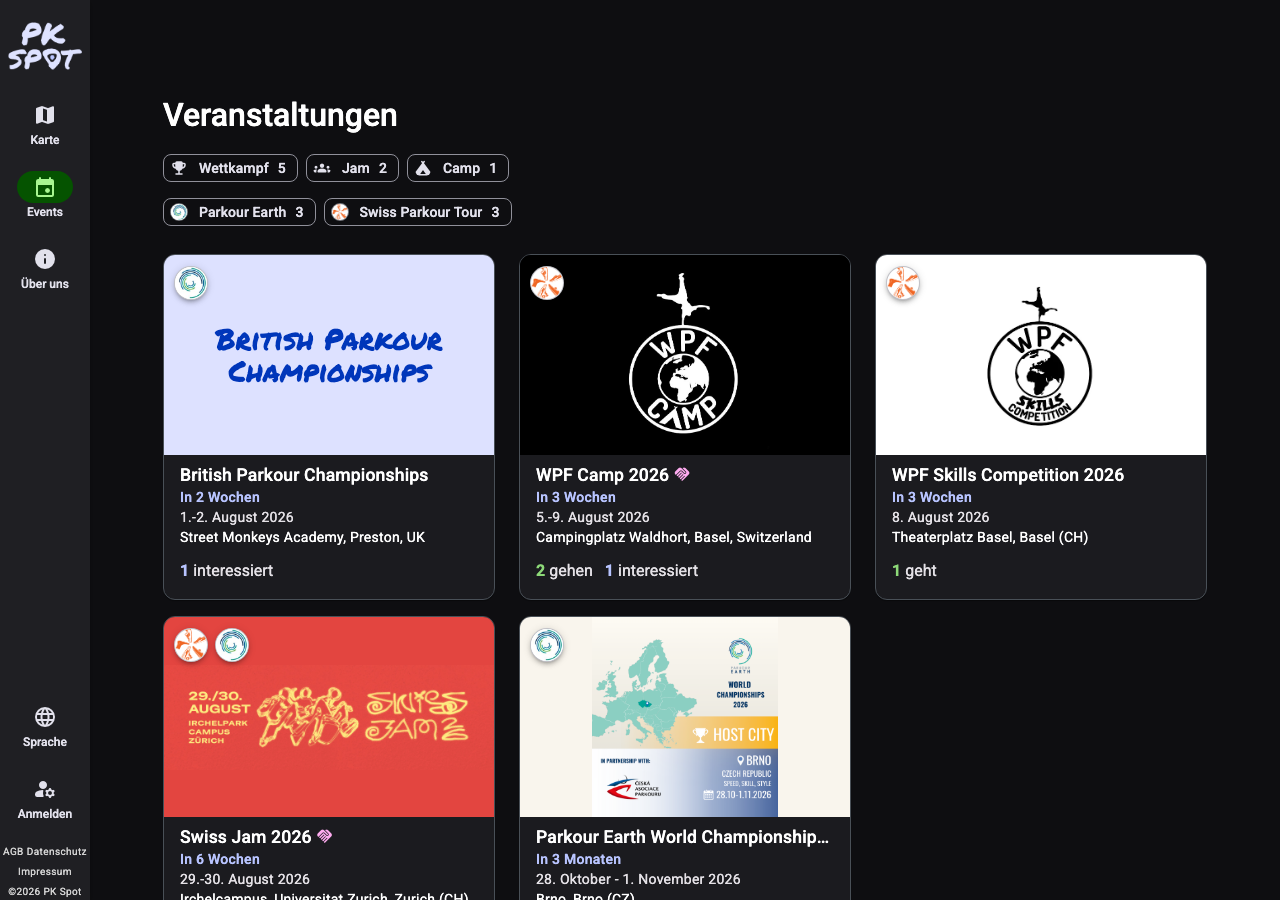
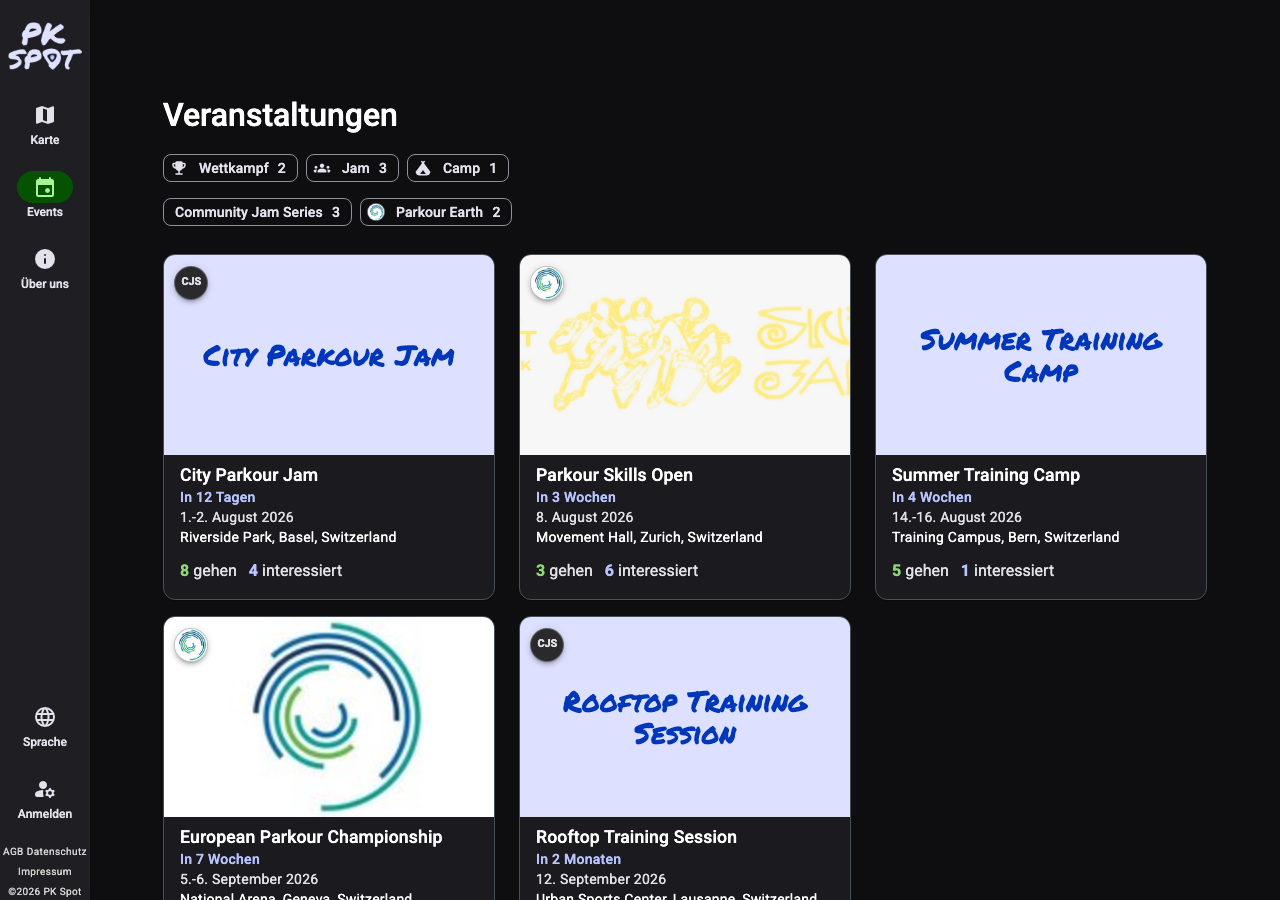
test: stabilize events route visual

diff --git a/e2e/visual/routes.visual.spec.ts b/e2e/visual/routes.visual.spec.ts
@@ -10,6 +10,8 @@ interface RouteVisualCase {
   clip?: { x: number; y: number; width: number; height: number };
   maxDiffPixels?: number;
   eventMapLayout?: "full" | "embedded";
+  eventIndexFixture?: boolean;
+  fixedTime?: string;
 }
 
 const desktopViewport = { width: 1280, height: 900 };
@@ -18,7 +20,14 @@ const mobileViewport = { width: 390, height: 844 };
 
 const routeVisualCases: RouteVisualCase[] = [
   { name: "map", path: "/map", maxDiffPixels: 80_000 },
-  { name: "events", path: "/events", fullPage: true, maxDiffPixels: 2_000 },
+  {
+    name: "events",
+    path: "/events",
+    fullPage: true,
+    maxDiffPixels: 2_000,
+    eventIndexFixture: true,
+    fixedTime: "2026-07-20T12:00:00.000Z",
+  },
   {
     name: "event-detail",
     path: "/events/swissjam25",
@@ -129,8 +138,11 @@ test.describe("Route visual regression @visual", () => {
 
 async function prepareRoute(page: Page, route: RouteVisualCase): Promise<void> {
   await page.setViewportSize(route.viewport ?? desktopViewport);
+  if (route.fixedTime) {
+    await page.clock.setFixedTime(new Date(route.fixedTime));
+  }
   await page.addInitScript(
-    ({ signedIn }) => {
+    ({ eventIndexFixture, signedIn }) => {
       localStorage.setItem("acceptedVersion", "5");
       localStorage.setItem(
         "lastLocationAndZoom",
@@ -140,6 +152,107 @@ async function prepareRoute(page: Page, route: RouteVisualCase): Promise<void> {
         }),
       );
       localStorage.setItem("mapStyle", "roadmap");
+
+      if (eventIndexFixture) {
+        (
+          window as typeof window & {
+            __PKSPOT_SCREENSHOT_EVENT_INDEX__?: unknown;
+          }
+        ).__PKSPOT_SCREENSHOT_EVENT_INDEX__ = {
+          events: [
+            {
+              id: "visual-city-jam",
+              slug: "visual-city-jam",
+              name: "City Parkour Jam",
+              venue_string: "Riverside Park",
+              locality_string: "Basel, Switzerland",
+              location_raw: { lat: 47.5596, lng: 7.5886 },
+              start: "2026-08-01T10:00:00.000Z",
+              end: "2026-08-02T18:00:00.000Z",
+              event_categories: ["jam"],
+              series_ids: ["community-jam-series"],
+              rsvp_counts: { going: 8, interested: 4, notgoing: 0, total: 12 },
+            },
+            {
+              id: "visual-skills-open",
+              slug: "visual-skills-open",
+              name: "Parkour Skills Open",
+              banner_src: "assets/swissjam/swissjam26_banner.jpeg",
+              venue_string: "Movement Hall",
+              locality_string: "Zurich, Switzerland",
+              location_raw: { lat: 47.3769, lng: 8.5417 },
+              start: "2026-08-08T09:00:00.000Z",
+              end: "2026-08-08T18:00:00.000Z",
+              event_categories: ["competition"],
+              series_ids: ["parkour-earth"],
+              rsvp_counts: { going: 3, interested: 6, notgoing: 0, total: 9 },
+            },
+            {
+              id: "visual-summer-camp",
+              slug: "visual-summer-camp",
+              name: "Summer Training Camp",
+              venue_string: "Training Campus",
+              locality_string: "Bern, Switzerland",
+              location_raw: { lat: 46.948, lng: 7.4474 },
+              start: "2026-08-14T10:00:00.000Z",
+              end: "2026-08-16T17:00:00.000Z",
+              event_categories: ["camp"],
+              rsvp_counts: { going: 5, interested: 2, notgoing: 0, total: 7 },
+            },
+            {
+              id: "visual-championship",
+              slug: "visual-championship",
+              name: "European Parkour Championship",
+              banner_src: "assets/logos/parkour_earth.jpg",
+              banner_fit: "contain",
+              banner_accent_color: "#ffffff",
+              venue_string: "National Arena",
+              locality_string: "Geneva, Switzerland",
+              location_raw: { lat: 46.2044, lng: 6.1432 },
+              start: "2026-09-05T09:00:00.000Z",
+              end: "2026-09-06T18:00:00.000Z",
+              event_categories: ["competition"],
+              series_ids: ["parkour-earth"],
+            },
+            {
+              id: "visual-rooftop-session",
+              slug: "visual-rooftop-session",
+              name: "Rooftop Training Session",
+              venue_string: "Urban Sports Center",
+              locality_string: "Lausanne, Switzerland",
+              location_raw: { lat: 46.5197, lng: 6.6323 },
+              start: "2026-09-12T14:00:00.000Z",
+              end: "2026-09-12T19:00:00.000Z",
+              event_categories: ["jam", "workshop"],
+              series_ids: ["community-jam-series"],
+            },
+            {
+              id: "visual-past-event",
+              slug: "visual-past-event",
+              name: "Spring Movement Meetup",
+              venue_string: "Old Town Plaza",
+              locality_string: "Lucerne, Switzerland",
+              location_raw: { lat: 47.0502, lng: 8.3093 },
+              start: "2026-06-20T10:00:00.000Z",
+              end: "2026-06-21T17:00:00.000Z",
+              event_categories: ["jam"],
+              series_ids: ["community-jam-series"],
+            },
+          ],
+          seriesById: {
+            "community-jam-series": {
+              id: "community-jam-series",
+              name: "Community Jam Series",
+            },
+            "parkour-earth": {
+              id: "parkour-earth",
+              name: "Parkour Earth",
+              logo_src: "assets/logos/parkour_earth.jpg",
+              logo_background_color: "#ffffff",
+            },
+          },
+        };
+      }
 
       if (signedIn) {
         (
@@ -176,7 +289,10 @@ async function prepareRoute(page: Page, route: RouteVisualCase): Promise<void> {
         };
       }
     },
-    { signedIn: route.signedIn === true },
+    {
+      eventIndexFixture: route.eventIndexFixture === true,
+      signedIn: route.signedIn === true,
+    },
   );
 
   await page.goto(`/de${route.path}`, { waitUntil: "domcontentloaded" });

diff --git a/src/app/components/events-page/events-page.component.spec.ts b/src/app/components/events-page/events-page.component.spec.ts
@@ -2,7 +2,7 @@ import { LOCALE_ID, PLATFORM_ID, signal } from "@angular/core";
 import { TestBed } from "@angular/core/testing";
 import { ActivatedRoute, convertToParamMap, Router } from "@angular/router";
 import { BehaviorSubject } from "rxjs";
-import { describe, expect, it, vi } from "vitest";
+import { afterEach, describe, expect, it, vi } from "vitest";
 import { Event as PkEvent } from "../../../db/models/Event";
 import {
   EventCategory,
@@ -13,6 +13,10 @@ import { AuthenticationService } from "../../services/firebase/authentication.se
 import { EventsService } from "../../services/firebase/firestore/events.service";
 import { SeriesService } from "../../services/firebase/firestore/series.service";
 import { EventsPageComponent } from "./events-page.component";
+
+interface ScreenshotGlobal {
+  __PKSPOT_SCREENSHOT_EVENT_INDEX__?: unknown;
+}
 
 const flushPromises = () =>
   new Promise((resolve) => {
@@ -43,6 +47,10 @@ const buildEvent = (
   } as unknown as EventSchema);
 
 describe("EventsPageComponent", () => {
+  afterEach(() => {
+    delete (globalThis as ScreenshotGlobal).__PKSPOT_SCREENSHOT_EVENT_INDEX__;
+  });
+
   it("loads events during server-side initialization", async () => {
     const event = buildEvent("swissjam26", "Swiss Jam 2026");
     const eventsService = {
@@ -75,6 +83,57 @@ describe("EventsPageComponent", () => {
     expect(eventsService.getEvents).toHaveBeenCalledWith({ sortByNext: true });
     expect(component.loading()).toBe(false);
     expect(component.events()).toContain(event);
+  });
+
+  it("uses deterministic event index data for screenshot rendering", async () => {
+    const eventsService = { getEvents: vi.fn() };
+    (globalThis as ScreenshotGlobal).__PKSPOT_SCREENSHOT_EVENT_INDEX__ = {
+      events: [
+        {
+          id: "visual-jam",
+          name: "Visual Jam",
+          slug: "visual-jam",
+          venue_string: "Fixture Hall",
+          locality_string: "Zurich, Switzerland",
+          location_raw: { lat: 47.3769, lng: 8.5417 },
+          start: "2026-08-01T10:00:00.000Z",
+          end: "2026-08-02T18:00:00.000Z",
+          event_categories: ["jam"],
+          series_ids: ["visual-series"],
+        },
+      ],
+      seriesById: {
+        "visual-series": { id: "visual-series", name: "Visual Series" },
+      },
+    };
+
+    TestBed.configureTestingModule({
+      providers: [
+        { provide: EventsService, useValue: eventsService },
+        { provide: SeriesService, useValue: { getSeriesByIds: vi.fn() } },
+        {
+          provide: AuthenticationService,
+          useValue: { user: { data: null }, isAdmin: signal(false) },
+        },
+        { provide: LOCALE_ID, useValue: "en" },
+        { provide: PLATFORM_ID, useValue: "browser" },
+      ],
+    });
+
+    const component = TestBed.runInInjectionContext(
+      () => new EventsPageComponent(),
+    );
+    component.ngOnInit();
+    await flushPromises();
+
+    expect(eventsService.getEvents).not.toHaveBeenCalled();
+    expect(component.events().map((event) => event.name)).toEqual([
+      "Visual Jam",
+    ]);
+    expect(component.seriesById()["visual-series"]?.name).toBe(
+      "Visual Series",
+    );
+    expect(component.loading()).toBe(false);
   });
 
   it("filters events by selected categories", () => {

diff --git a/src/app/components/events-page/events-page.component.ts b/src/app/components/events-page/events-page.component.ts
@@ -13,7 +13,11 @@ import { MatIconModule } from "@angular/material/icon";
 import { ActivatedRoute, ParamMap, Router, RouterLink } from "@angular/router";
 import { takeUntilDestroyed } from "@angular/core/rxjs-interop";
 import { Event as PkEvent } from "../../../db/models/Event";
-import { EventCategory, EventId } from "../../../db/schemas/EventSchema";
+import {
+  EventCategory,
+  EventId,
+  EventSchema,
+} from "../../../db/schemas/EventSchema";
 import { EventsService } from "../../services/firebase/firestore/events.service";
 import { AuthenticationService } from "../../services/firebase/authentication.service";
 import { SWISSJAM25_STATIC } from "../event-page/swissjam25.static";
@@ -24,6 +28,24 @@ import {
 } from "../../services/firebase/firestore/series.service";
 import { eventImageDisplaySrc } from "../event-display/event-display.helpers";
 import { AnalyticsService } from "../../services/analytics.service";
+
+type ScreenshotEventSchema = Omit<
+  EventSchema,
+  "end" | "location" | "start"
+> & {
+  id: string;
+  end: string;
+  start: string;
+};
+
+interface ScreenshotEventIndex {
+  events: ScreenshotEventSchema[];
+  seriesById?: Record<string, SeriesDocument>;
+}
+
+interface ScreenshotGlobal {
+  __PKSPOT_SCREENSHOT_EVENT_INDEX__?: ScreenshotEventIndex;
+}
 
 @Component({
   selector: "app-events-page",
@@ -146,6 +168,13 @@ export class EventsPageComponent implements OnInit {
     const includeUnpublished = this.isAdmin();
     this._lastIncludeUnpublished = includeUnpublished;
     try {
+      const screenshotIndex = this._screenshotEventIndex();
+      if (screenshotIndex) {
+        this.events.set(screenshotIndex.events);
+        this.seriesById.set(screenshotIndex.seriesById);
+        return;
+      }
+
       const events = await this._eventsService.getEvents({
         sortByNext: true,
         ...(includeUnpublished ? { includeUnpublished } : {}),
@@ -279,6 +308,22 @@ export class EventsPageComponent implements OnInit {
       console.warn("EventsPage: failed to load series metadata", err);
       this.seriesById.set({});
     }
+  }
+
+  private _screenshotEventIndex(): {
+    events: PkEvent[];
+    seriesById: Record<string, SeriesDocument>;
+  } | null {
+    const fixture = (globalThis as ScreenshotGlobal)
+      .__PKSPOT_SCREENSHOT_EVENT_INDEX__;
+    if (!fixture || !Array.isArray(fixture.events)) return null;
+
+    return {
+      events: fixture.events.map(({ id, ...event }) =>
+        new PkEvent(id as EventId, event as unknown as EventSchema),
+      ),
+      seriesById: fixture.seriesById ?? {},
+    };
   }
 
   private _seriesFallbackLabel(seriesId: string): string {